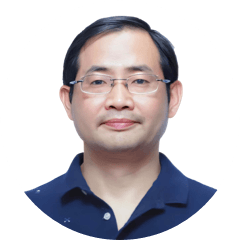
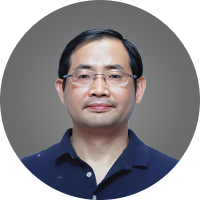
fix: openEuler组织架构 openEuler委员会 委员头像更新

diff --git a/tests/organization-image-assets.test.ts b/tests/organization-image-assets.test.ts
@@ -1,0 +1,105 @@
+import { expect, describe, it } from 'vitest';
+import fs from 'node:fs';
+import path from 'node:path';
+import yaml from 'js-yaml';
+
+const PROJECT_ROOT = process.cwd();
+const CONTENT_DIR = path.join(PROJECT_ROOT, '.content/organization');
+const IMAGES_DIR = path.join(CONTENT_DIR, 'images');
+const YANGJIGUO_PATH = path.join(IMAGES_DIR, 'yangjiguo.png');
+
+function readPngDimensions(filePath: string): { width: number; height: number } {
+  const buf = fs.readFileSync(filePath);
+  expect(buf[0], 'PNG signature byte 0').toBe(0x89);
+  expect(buf[1], 'PNG signature byte 1').toBe(0x50);
+  expect(buf[2], 'PNG signature byte 2').toBe(0x4e);
+  expect(buf[3], 'PNG signature byte 3').toBe(0x47);
+  const width = buf.readUInt32BE(16);
+  const height = buf.readUInt32BE(20);
+  return { width, height };
+}
+
+describe('yangjiguo.png 图片替换 — 文件有效性', () => {
+  it('yangjiguo.png 文件存在且非空', () => {
+    expect(fs.existsSync(YANGJIGUO_PATH), 'yangjiguo.png 应存在').toBe(true);
+    const stat = fs.statSync(YANGJIGUO_PATH);
+    expect(stat.size, 'yangjiguo.png 文件大小应大于 0').toBeGreaterThan(0);
+  });
+
+  it('yangjiguo.png 是合法 PNG 格式(PNG 签名校验)', () => {
+    const buf = fs.readFileSync(YANGJIGUO_PATH);
+    expect(buf[0]).toBe(0x89);
+    expect(buf[1]).toBe(0x50);
+    expect(buf[2]).toBe(0x4e);
+    expect(buf[3]).toBe(0x47);
+  });
+
+  it('yangjiguo.png 是 RGBA 或 RGB PNG(非 JPEG masquerading)', () => {
+    const buf = fs.readFileSync(YANGJIGUO_PATH);
+    const ihdrColorType = buf[25];
+    expect(
+      [0, 2, 3, 4, 6].includes(ihdrColorType),
+      `IHDR colorType=${ihdrColorType} 应为合法 PNG 类型(0=灰度,2=RGB,3=索引,4=灰度+Alpha,6=RGBA)`
+    ).toBe(true);
+  });
+
+  it('yangjiguo.png 文件大小合理(1KB~500KB)', () => {
+    const stat = fs.statSync(YANGJIGUO_PATH);
+    expect(stat.size, 'yangjiguo.png 应 ≥ 1KB').toBeGreaterThanOrEqual(1024);
+    expect(stat.size, 'yangjiguo.png 应 ≤ 500KB(头像图不应过大)').toBeLessThanOrEqual(500 * 1024);
+  });
+});
+
+describe('yangjiguo.png 图片替换 — 尺寸校验', () => {
+  it('yangjiguo.png 尺寸为正整数(非 0×0)', () => {
+    const dims = readPngDimensions(YANGJIGUO_PATH);
+    expect(dims.width, 'width 应 > 0').toBeGreaterThan(0);
+    expect(dims.height, 'height 应 > 0').toBeGreaterThan(0);
+  });
+
+  it('yangjiguo.png 宽高比合理(接近正方形,适配圆形头像 CSS)', () => {
+    const dims = readPngDimensions(YANGJIGUO_PATH);
+    const ratio = dims.width / dims.height;
+    expect(ratio, `宽高比 ${dims.width}×${dims.height} 应在 0.8~1.2 之间`).toBeGreaterThanOrEqual(0.8);
+    expect(ratio, `宽高比 ${dims.width}×${dims.height} 应在 0.8~1.2 之间`).toBeLessThanOrEqual(1.2);
+  });
+
+  it('yangjiguo.png 分辨率不超过 500×500(头像图无需超高分辨率)', () => {
+    const dims = readPngDimensions(YANGJIGUO_PATH);
+    expect(dims.width, `width=${dims.width} 应 ≤ 500`).toBeLessThanOrEqual(500);
+    expect(dims.height, `height=${dims.height} 应 ≤ 500`).toBeLessThanOrEqual(500);
+  });
+});
+
+describe('yangjiguo.png 图片替换 — YAML 引用路径不变', () => {
+  it('committee.yaml 中杨继国的 image 字段仍为 ./images/yangjiguo.png', () => {
+    const committeeYaml = fs.readFileSync(path.join(CONTENT_DIR, 'committee.yaml'), 'utf8');
+    const committee = yaml.load(committeeYaml) as any;
+    const yangjiguo = committee.groups
+      ?.flatMap((g: any) => g.members ?? [])
+      ?.find((m: any) => m.name === '杨继国' || m.name_en === 'Yang Jiguo');
+    expect(yangjiguo, 'committee.yaml 应有杨继国成员').toBeDefined();
+    expect(yangjiguo.image, '杨继国 image 应为 ./images/yangjiguo.png').toBe('./images/yangjiguo.png');
+  });
+});
+
+describe('yangjiguo.png 图片替换 — 边界:峰会嘉宾图不受影响', () => {
+  const SUMMIT_YANGJIGUO = path.join(
+    PROJECT_ROOT,
+    'app/.vitepress/src/views/summit/summit2023/img/guest/yangjiguo.png'
+  );
+
+  it('summit 2023 yangjiguo.png 存在(边界:不应被联动修改)', () => {
+    expect(fs.existsSync(SUMMIT_YANGJIGUO), '峰会嘉宾 yangjiguo.png 应存在').toBe(true);
+  });
+
+  it('organization yangjiguo 与 summit yangjiguo 是不同文件(不同路径/不同内容)', () => {
+    const orgStat = fs.statSync(YANGJIGUO_PATH);
+    const summitStat = fs.statSync(SUMMIT_YANGJIGUO);
+    expect(YANGJIGUO_PATH).not.toBe(SUMMIT_YANGJIGUO);
+    const orgBuf = fs.readFileSync(YANGJIGUO_PATH);
+    const summitBuf = fs.readFileSync(SUMMIT_YANGJIGUO);
+    expect(orgBuf.length === summitBuf.length && orgBuf.equals(summitBuf),
+      'organization 与 summit 的 yangjiguo.png 应是不同文件(内容不同)').toBe(false);
+  });
+});